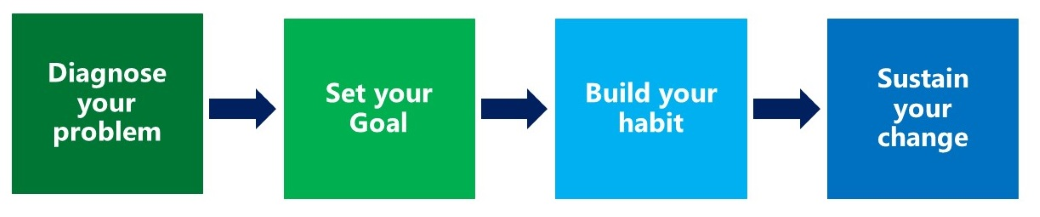
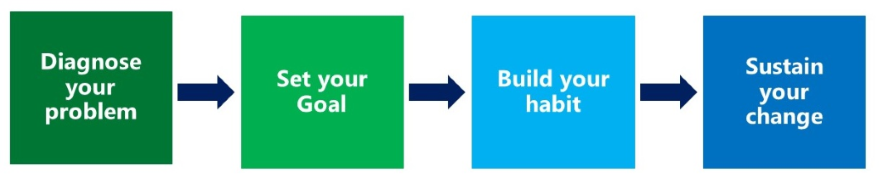
fix links, shrink graphic

diff --git a/WorkplaceAnalytics/MyAnalytics/Use/MyA-Adoption/Team-adopt-plan.md b/WorkplaceAnalytics/MyAnalytics/Use/MyA-Adoption/Team-adopt-plan.md
@@ -17,10 +17,10 @@ ms.prod: wpa
 
 The ideal program team is comprised of the following members:
 
- * [Executive sponsor](Team-adopt-plan.md#Executive-sponsor)
- * [Program manager](Team-adopt-plan.md#Program-manager)
- * [Change agents](Team-adopt-plan.md#Change-agents)
- * [Program participants](Team-adopt-plan.md#Program-participants)
+ * [Executive sponsor](Team-adopt-plan.md#executive-sponsor)
+ * [Program manager](Team-adopt-plan.md#program-manager)
+ * [Change agents](Team-adopt-plan.md#change-agents)
+ * [Program participants](Team-adopt-plan.md#program-participants)
 
 > [!Note] 
 > If you are a manager of a small team interested in running this program, focus on the program manager and program participants roles. However, it’s a good idea to inform your manager or an executive sponsor of your admirable effort to help your team build heathier collaboration habits. 
@@ -97,10 +97,10 @@ Program participants should also be allowed to opt-out of the program if they so
 
 The program manager needs to define the following:
 
- * [Program duration and dates](Team-adopt-plan.md#Program-duration-and-dates)
- * [Program components](Team-adopt-plan.md#Program-components)
- * [A supplementary outcome metric (optional)](Team-adopt-plan.md#A-supplementary-outcome-metric-(optional))
- * [A control group (optional)](Team-adopt-plan.md#A-control-group-(optional))
+ * [Program duration and dates](Team-adopt-plan.md#program-duration-and-dates)
+ * [Program components](Team-adopt-plan.md#program-components)
+ * [A supplementary outcome metric (optional)](Team-adopt-plan.md#a-supplementary-outcome-metric-(optional))
+ * [A control group (optional)](Team-adopt-plan.md#a-control-group-(optional))
 
 ### Program duration and dates
 
